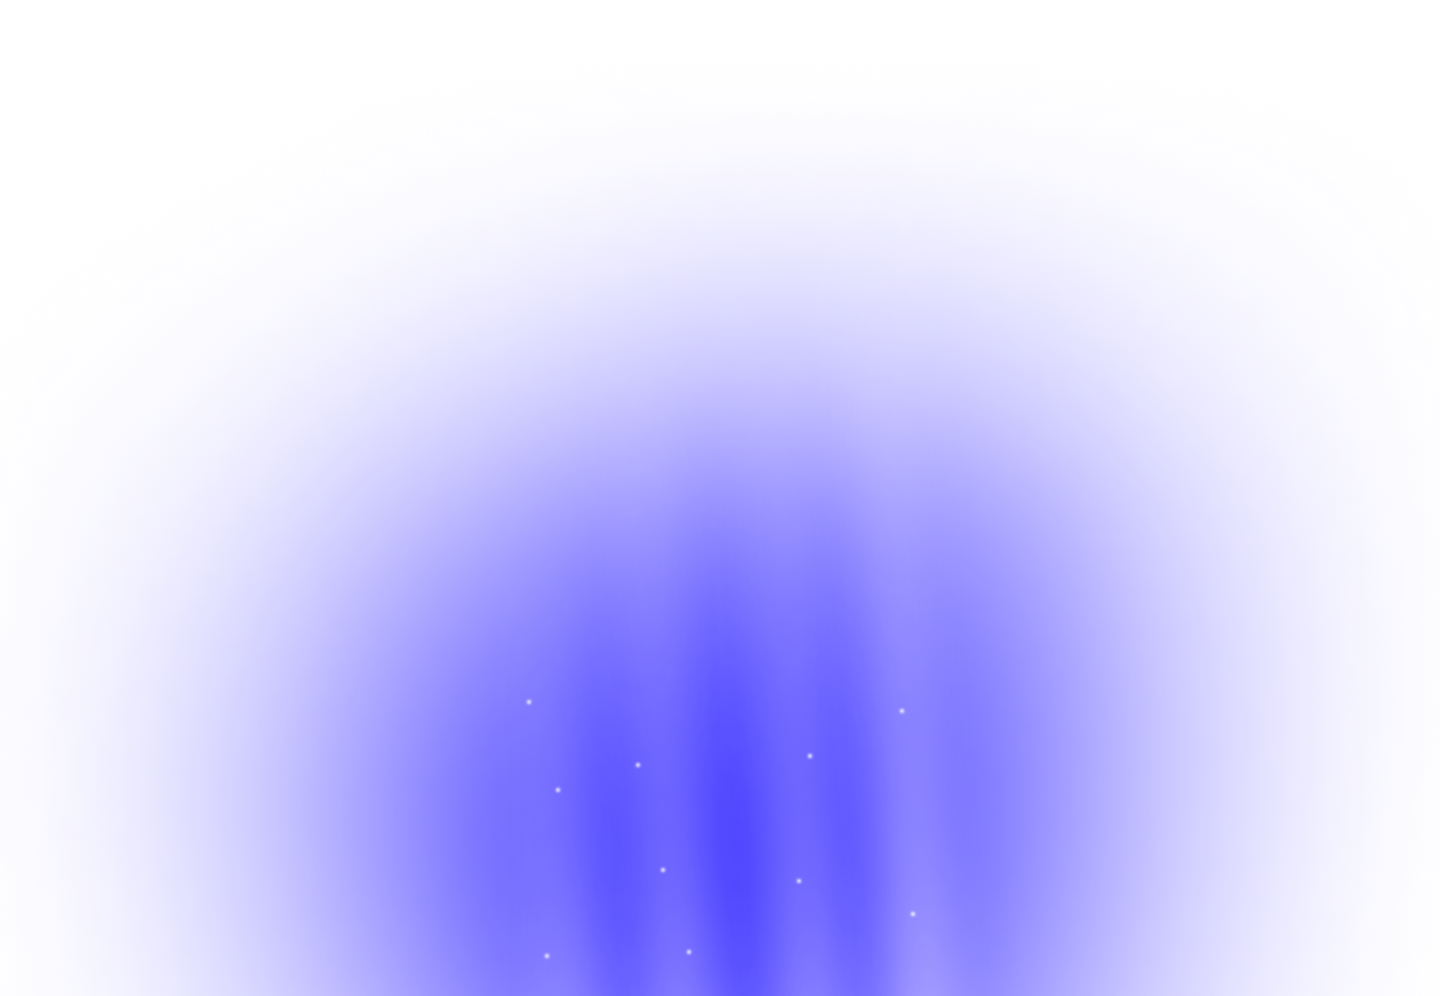
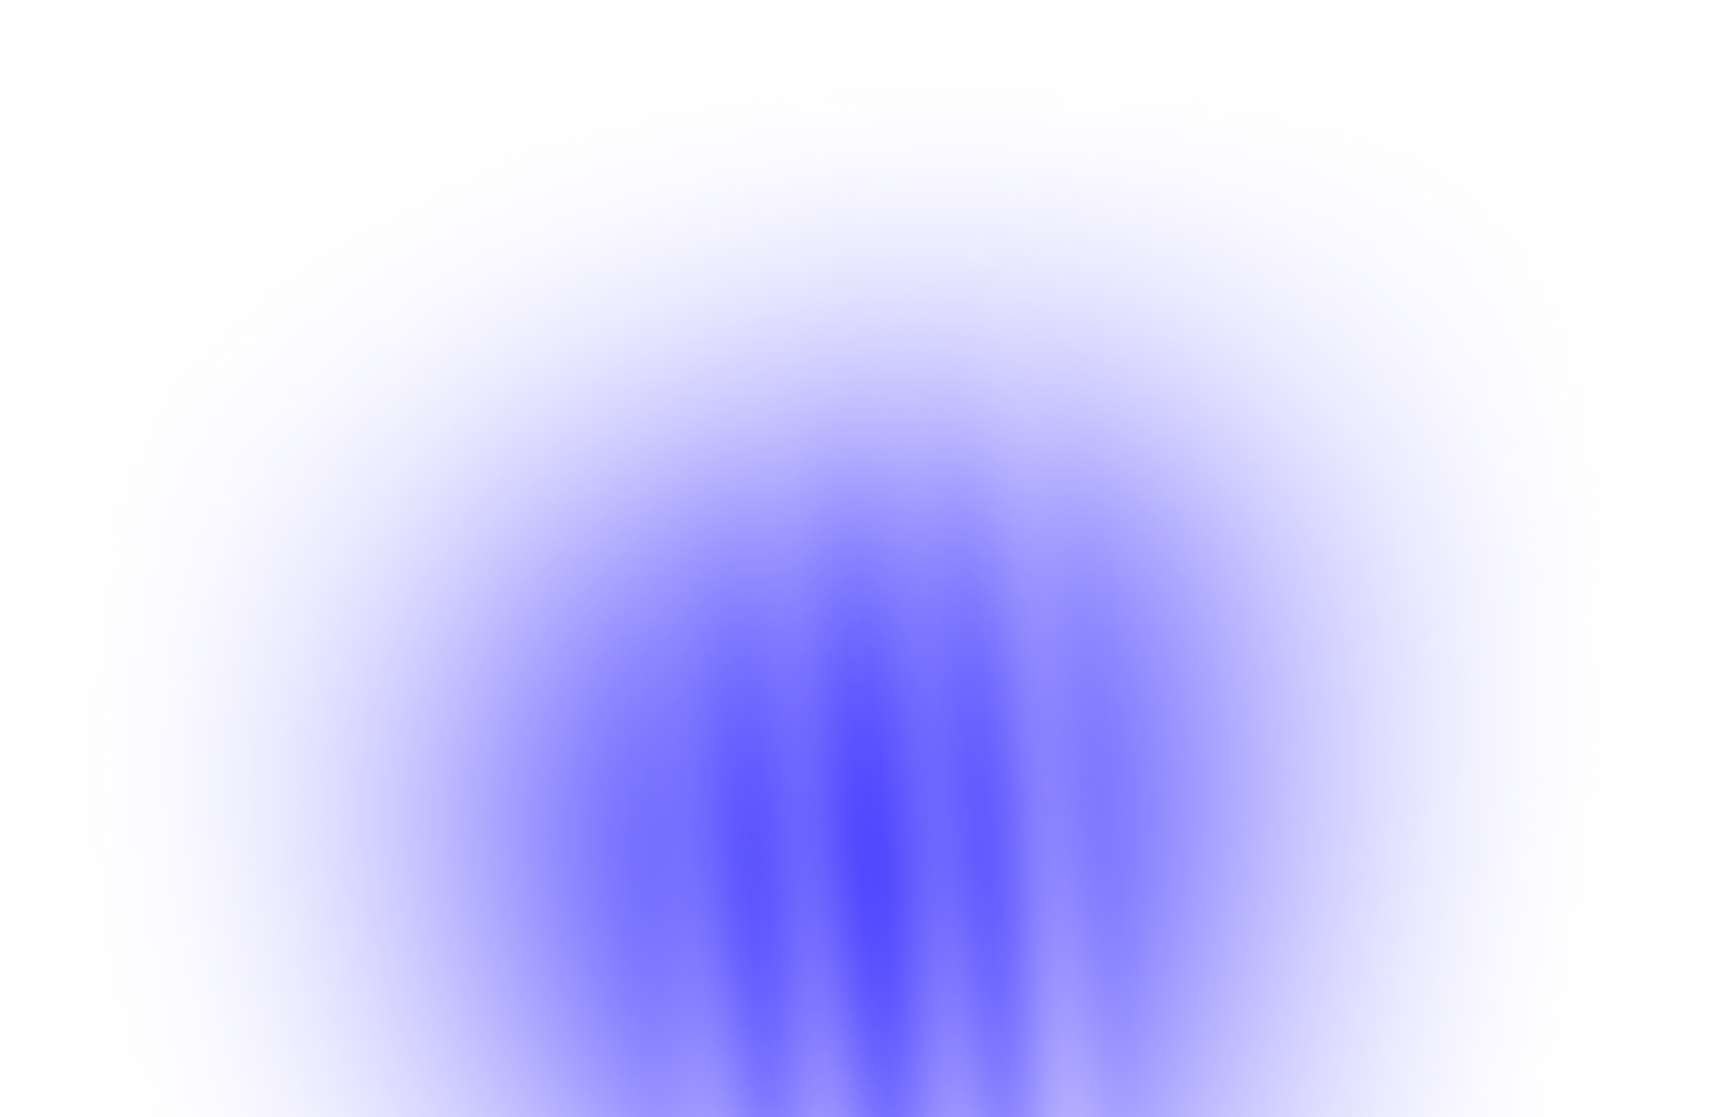
fixed

Changed region(s): [[0.4688, 0.6225, 0.875, 1.0], [0.125, 0.747, 0.4375, 1.0]]

diff --git a/frontend/src/components/Hero.tsx b/frontend/src/components/Hero.tsx
@@ -1,12 +1,38 @@
-import React, { useState, useEffect } from 'react'; 
+import React, { useState, useEffect } from 'react';
 import { useNavigate } from 'react-router-dom';
 import { motion } from 'framer-motion';
 import CreateRoomModal from './modals/CreateRoomModal';
 import JoinRoomModal from './modals/JoinRoomModal';
-import Notification from "../components/Notification";
+import Notification from "./Notification";
 import light from '../assets/light.png';
 import Navbar from './Navbar';
 
+const FloatingParticles = () => {
+  return (
+    <div className="absolute inset-0 overflow-hidden pointer-events-none -z-10">
+      {Array.from({ length: 12 }).map((_, i) => (
+        <motion.div
+          key={i}
+          className="absolute w-1 h-1 bg-white rounded-full opacity-40"
+          initial={{
+            x: Math.random() * window.innerWidth,
+            y: window.innerHeight + 100,
+          }}
+          animate={{
+            y: -100,
+            x: Math.random() * window.innerWidth,
+          }}
+          transition={{
+            duration: Math.random() * 10 + 15,
+            repeat: Infinity,
+            delay: Math.random() * 5,
+            ease: "linear",
+          }}
+        />
+      ))}
+    </div>
+  );
+};
 
 
 const Hero: React.FC = () => {
@@ -31,12 +57,12 @@ const Hero: React.FC = () => {
 
   return (
     <div
-      className="w-full min-h-screen flex flex-col items-center jjustify-start px-4 lg:pt-52 pt-48 relative"
+      className="w-full min-h-screen flex flex-col items-center justify-start px-4 lg:pt-52 pt-48 relative -z-20"
       style={{
         backgroundImage: `url(${light})`,
         backgroundRepeat: 'no-repeat',
         backgroundPosition: 'center bottom',
-        backgroundSize: '1000px 950px', // changed from 'contain' to 'cover'
+        backgroundSize: '1250px 950px', // changed from 'contain' to 'cover'
       }}
     >
       <Navbar />
@@ -54,31 +80,53 @@ const Hero: React.FC = () => {
 
 
         </p>
-        <div className="flex flex-col sm:flex-row gap-4 justify-center">
-          <motion.button
-            whileHover={{ scale: 1.05 }}
-            whileTap={{ scale: 0.98 }}
-            onClick={() => setIsCreateModalOpen(true)}
-            className="px-8 py-3 rounded-xl border-2 border-indigo-400 bg-gradient-to-r from-blue-600 to-indigo-600 text-white font-medium shadow-lg shadow-blue-500/30 hover:shadow-blue-500/50 transition-all duration-300"
+        <div className="flex flex-col sm:flex-row gap-4 justify-center items-center w-full">
+          <motion.div
+            className="box-border flex flex-row gap-[18px] items-start justify-center p-0 relative shrink-0 w-full sm:w-auto"
+            initial={{ opacity: 0, y: 30 }}
+            animate={{ opacity: 1, y: 0 }}
+            transition={{ duration: 0.8, delay: 1.2, ease: "easeOut" }}
           >
-            Create Room
-          </motion.button>
+            <motion.div
+              className="relative h-[52px] w-full sm:w-[210px] rounded-full bg-[#3e34ff] overflow-hidden cursor-pointer max-w-sm"
+              whileHover={{ scale: 1.05, boxShadow: "0px 8px 40px rgba(62,52,255,0.8)" }}
+              whileTap={{ scale: 0.98 }}
+              transition={{ duration: 0.2 }}
+              onClick={() => setIsCreateModalOpen(true)}
+            >
+              <div className="flex flex-row items-center justify-center gap-2.5 h-full w-full px-4 py-1.5">
+                <p className="font-semibold text-[16px] text-white whitespace-pre leading-normal">
+                  Create Room
+                </p>
+              </div>
+              <div className="absolute inset-0 pointer-events-none shadow-[inset_0px_4px_4px_rgba(255,255,255,0.25)] rounded-full" />
+              <div className="absolute inset-0 pointer-events-none rounded-full border border-[#3e34ff] shadow-[0px_4px_30px_rgba(62,52,255,0.6),0px_0px_0px_4px_rgba(62,52,255,0.1)]" />
+            </motion.div>
+          </motion.div>
+
           <motion.button
-            whileHover={{ scale: 1.05 }}
+            whileHover={{ scale: 1.05, boxShadow: "0px 8px 30px rgba(255,255,255,0.3)" }}
             whileTap={{ scale: 0.98 }}
             onClick={() => setIsJoinModalOpen(true)}
-            className="px-8 py-3 rounded-xl border-2 border-white/40 bg-gray-900 backdrop-blur-md text-white font-medium border border-gray-700 hover:bg-gray-800 transition-all duration-300"
+            transition={{ duration: 0.2 }}
+            className="bg-gray-800 h-[52px] w-full sm:w-[210px] relative rounded-full overflow-hidden cursor-pointer max-w-sm"
           >
-            Join Room
+            <div className="flex flex-row items-center justify-center gap-2.5 h-full w-full px-4 py-1.5">
+              <p className="font-semibold text-[16px] text-white whitespace-pre leading-normal">
+                Join Room
+              </p>
+            </div>
+            <div className="absolute inset-0 pointer-events-none rounded-full border-2 border-gray-500 shadow-[0px_4px_20px_rgba(255,255,255,0.1),0px_0px_0px_4px_rgba(255,255,255,0.1)]" />
           </motion.button>
         </div>
+
       </motion.div>
 
       {isCreateModalOpen && (
         <CreateRoomModal
           onClose={() => setIsCreateModalOpen(false)}
           onCreateRoom={handleCreateRoom}
-          onError={() => setShowNotification(true)} 
+          onError={() => setShowNotification(true)}
         />
       )}
       {isJoinModalOpen && (
@@ -87,10 +135,17 @@ const Hero: React.FC = () => {
           onJoinRoom={handleJoinRoom}
         />
       )}
-      <Notification 
-        show={showNotification} 
-        onClose={() => setShowNotification(false)} 
-      />
+
+      <FloatingParticles />
+
+      {showNotification && (
+        <Notification
+          id="error-notification"
+          message="An error occurred while creating the room"
+          type="error"
+          onClose={() => setShowNotification(false)}
+        />
+      )}
     </div>
 
   );

diff --git a/frontend/src/components/ConnectionStatus.tsx b/frontend/src/components/ConnectionStatus.tsx
@@ -28,7 +28,7 @@ const ConnectionStatus: React.FC<ConnectionStatusProps> = ({
         if (isReconnecting) return 'text-yellow-400';
         if (connectionState === 'connected' && iceConnectionState === 'connected') return 'text-green-400';
         if (connectionState === 'failed' || iceConnectionState === 'failed') return 'text-red-400';
-        if (connectionState === 'connecting' || iceConnectionState === 'connecting') return 'text-blue-400';
+        if (connectionState === 'connecting' || iceConnectionState === 'checking') return 'text-blue-400';
         return 'text-gray-400';
     };
 
@@ -36,7 +36,7 @@ const ConnectionStatus: React.FC<ConnectionStatusProps> = ({
         if (isReconnecting) return <RotateCcw size={16} className="animate-spin" />;
         if (connectionState === 'connected' && iceConnectionState === 'connected') return <CheckCircle size={16} />;
         if (connectionState === 'failed' || iceConnectionState === 'failed') return <WifiOff size={16} />;
-        if (connectionState === 'connecting' || iceConnectionState === 'connecting') return <Wifi size={16} className="animate-pulse" />;
+        if (connectionState === 'connecting' || iceConnectionState === 'checking') return <Wifi size={16} className="animate-pulse" />;
         return <AlertTriangle size={16} />;
     };
 
@@ -44,7 +44,7 @@ const ConnectionStatus: React.FC<ConnectionStatusProps> = ({
         if (isReconnecting) return 'Reconnecting...';
         if (connectionState === 'connected' && iceConnectionState === 'connected') return 'Connected';
         if (connectionState === 'failed' || iceConnectionState === 'failed') return 'Connection Failed';
-        if (connectionState === 'connecting' || iceConnectionState === 'connecting') return 'Connecting...';
+        if (connectionState === 'connecting' || iceConnectionState === 'checking') return 'Connecting...';
         return 'Disconnected';
     };
 

diff --git a/frontend/src/components/modals/CreateRoomModal.tsx b/frontend/src/components/modals/CreateRoomModal.tsx
@@ -96,7 +96,7 @@ const CreateRoomModal: React.FC<CreateRoomModalProps> = ({ onClose, onCreateRoom
         exit={{ scale: 0.95, opacity: 0 }}
         transition={{ duration: 0.2 }}
         className="bg-gray-900 rounded-xl border border-gray-800 p-6 max-w-md w-full shadow-2xl"
-        onClick={(e) => e.stopPropagation()}
+        onClick={(e: React.MouseEvent<HTMLDivElement, MouseEvent>) => e.stopPropagation()}
       >
         <div className="flex justify-between items-center mb-4">
           <h2 className="text-xl font-semibold text-white">Create a new room</h2>
@@ -141,7 +141,7 @@ const CreateRoomModal: React.FC<CreateRoomModalProps> = ({ onClose, onCreateRoom
               placeholder="Enter your name"
               className="w-full bg-gray-800 border border-gray-700 rounded-lg px-4 py-2 text-white focus:ring-2 focus:ring-blue-500 focus:border-transparent outline-none"
               required
-              disabled={isAuthenticated && user}
+              disabled={!!(isAuthenticated && user)}
             />
             {isAuthenticated && user && (
               <p className="mt-1 text-xs text-green-400">✓ Signed in as {user.username}</p>

diff --git a/frontend/src/components/modals/JoinRoomModal.tsx b/frontend/src/components/modals/JoinRoomModal.tsx
@@ -72,7 +72,7 @@ const JoinRoomModal: React.FC<JoinRoomModalProps> = ({ onClose, onJoinRoom }) =>
         exit={{ scale: 0.95, opacity: 0 }}
         transition={{ duration: 0.2 }}
         className="bg-gray-900 rounded-xl border border-gray-800 p-6 max-w-md w-full shadow-2xl"
-        onClick={(e) => e.stopPropagation()}
+        onClick={(e: React.MouseEvent<HTMLDivElement, MouseEvent>) => e.stopPropagation()}
       >
         <div className="flex justify-between items-center mb-4">
           <h2 className="text-xl font-semibold text-white">Join a room</h2>
@@ -123,7 +123,7 @@ const JoinRoomModal: React.FC<JoinRoomModalProps> = ({ onClose, onJoinRoom }) =>
               placeholder="Enter your name"
               className="w-full bg-gray-800 border border-gray-700 rounded-lg px-4 py-2 text-white focus:ring-2 focus:ring-blue-500 focus:border-transparent outline-none"
               required
-              disabled={isAuthenticated && user}
+              disabled={!!(isAuthenticated && user)}
             />
             {isAuthenticated && user && (
               <p className="mt-1 text-xs text-green-400">✓ Signed in as {user.username}</p>
